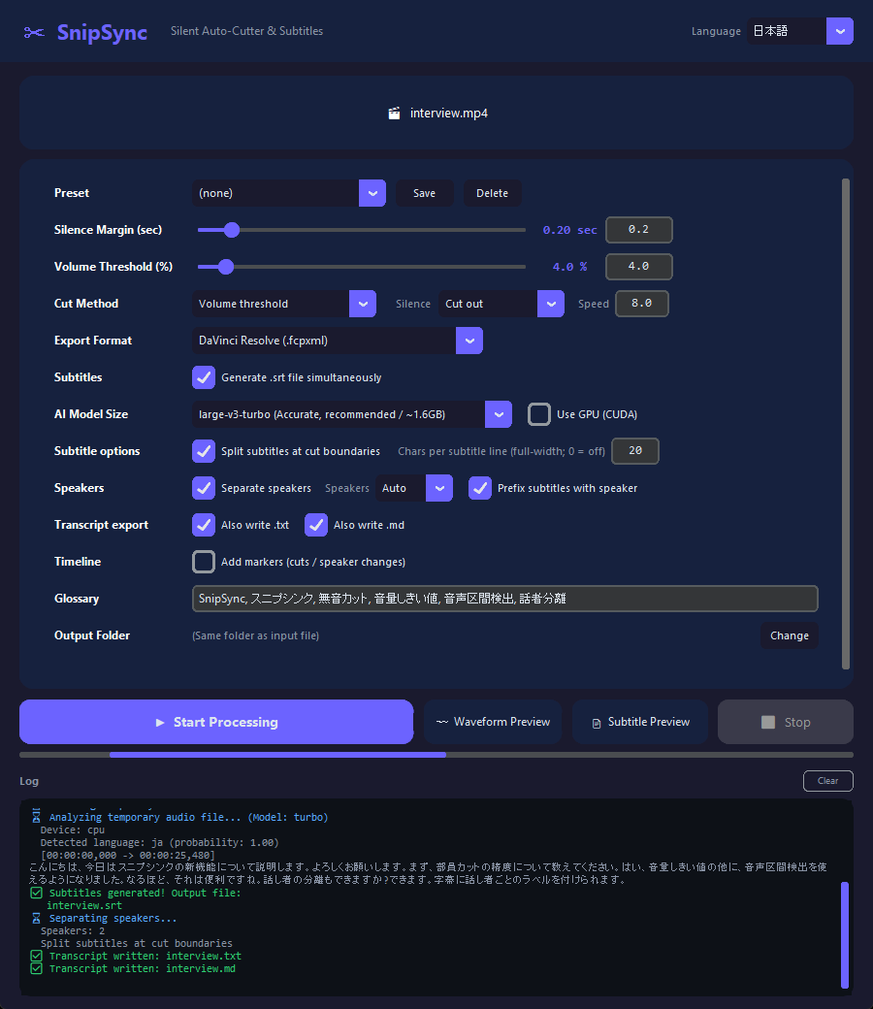
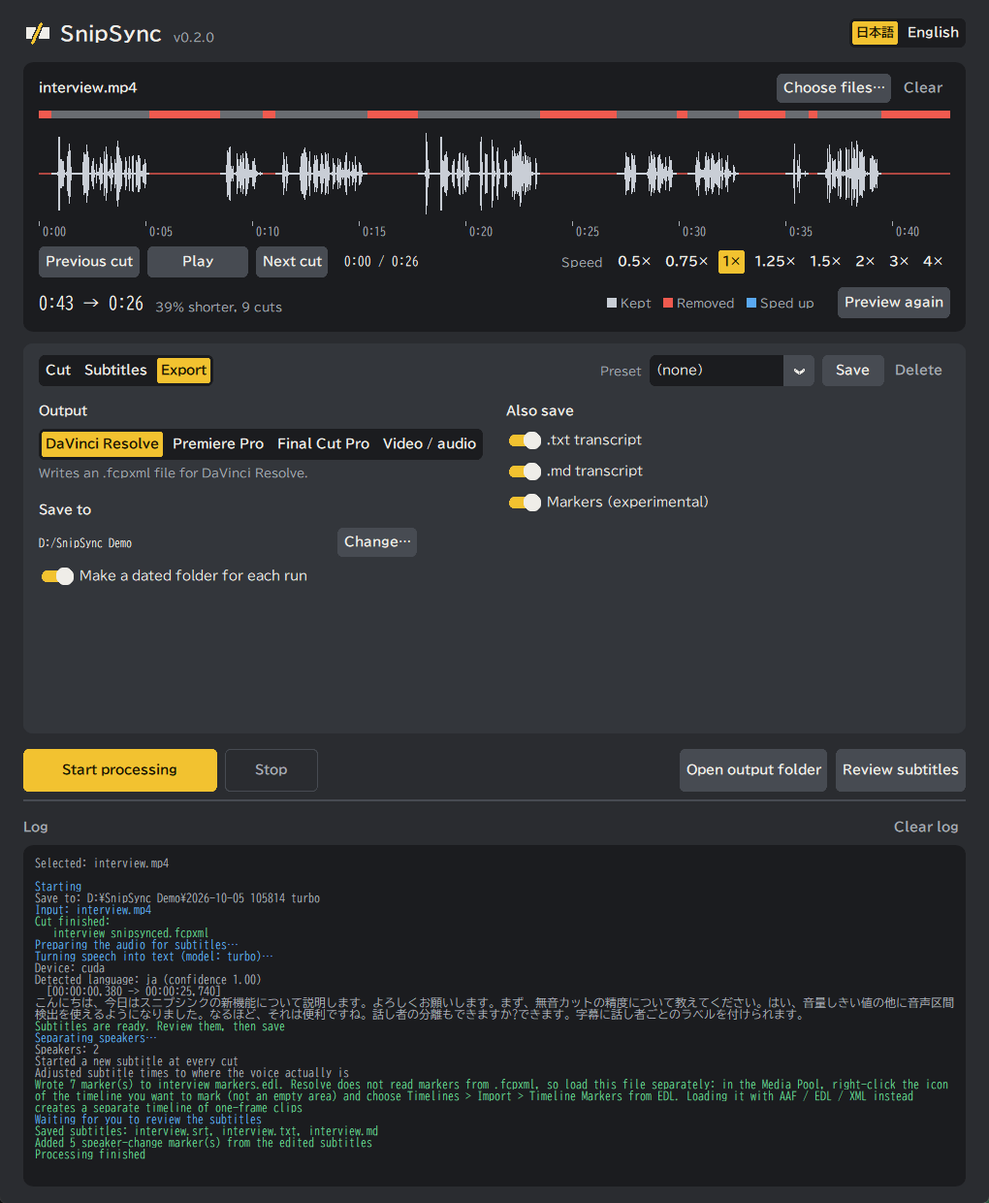
README: スクリーンショットを現在の画面に撮り直し、字幕の確認・編集画面の GIF を追加（4言語）

diff --git a/README_JA.md b/README_JA.md
@@ -183,20 +183,27 @@ flowchart LR
 
 | # | 場所 | 内容 |
 |:-:|---|---|
-| ① | ドロップゾーン | 動画・音声ファイル（複数・フォルダも可）をここにドロップします。クリックして選んでもOK |
-| ② | カットの設定 | **無音マージン**、**音量閾値**、**カット方式**（音量／音声区間検出）、**無音の扱い**（カット／倍速） |
-| ③ | 出力形式 | DaVinci Resolve / Premiere Pro / Final Cut Pro、または「カット済みメディア」（書き出し済みの動画・音声） |
-| ④ | 字幕自動生成 | 字幕のオン／オフと AI モデルの選択。精度重視なら `large-v3-turbo` を推奨 |
-| ⑤ | 字幕の詳細・オプション | カット境界での分割、1行の文字数、**話者の分離**、`.txt` / `.md` の書き出し、マーカー、用語辞書、出力先 |
-| ⑥ | **▶ 処理を開始する** | 全部を実行します。**■ 停止** で中断できます |
-| ⑦ | 波形プレビュー | 処理する*前*に、どこが切られるかを確認します |
-| ⑧ | 字幕プレビュー | 字幕全文を読む・コピー・保存します |
+| ① | ファイルを選ぶ／解除 | 動画・音声ファイル（複数・フォルダも可）は、波形の部分にドロップしても入れられます。「ファイルを選ぶ…」で選ぶこともできます |
+| ② | 波形 | 処理する*前*に、どこが切られるかが見えます。**赤**が削除、**青**が倍速、灰色が残る部分です。波形をクリックすると、再生位置がそこへ移ります |
+| ③ | 再生 | 前のカット／再生／次のカットと、再生速度（0.5〜4倍）。切った結果を、処理の前に聞けます |
+| ④ | 長さと短縮率 | 処理前 → 処理後の長さ、短縮率、カットの数。設定を変えたら **確認し直す** を押します |
+| ⑤ | 設定のタブ | **カット**（方式・しきい値・余白・無音の扱い）、**字幕**（AI モデル・話者など）、**書き出し**（出力形式・保存先など） |
+| ⑥ | プリセット | 設定一式を保存して、あとで呼び出せます |
+| ⑦ | **処理を開始** | 全部を実行します。**停止** で中断できます |
+| ⑧ | 出力フォルダを開く／字幕を確認・編集 | 処理が終わると押せます |
+| ⑨ | ログ | 処理の経過が出ます |
+
+字幕と書き出しのタブは、こうなっています。
+
+<p align="center"><img src="docs/images/tab_subs_ja.png" width="640" alt="字幕のタブ"></p>
+
+<p align="center"><img src="docs/images/tab_export_ja.png" width="640" alt="書き出しのタブ"></p>
 
 #### 2. 開始してログを見る
 
 <p align="center"><img src="docs/images/result_ja.png" width="640" alt="処理後のメイン画面（ログ表示）"></p>
 
-下の**ログ**に、カット、音声認識（認識したテキスト付き）、話者分離、書き出したファイルが順に表示されます。終わると、出力フォルダを開くか聞かれます。
+下の**ログ**に、カット、音声認識（認識したテキスト付き）、話者分離、書き出したファイルが順に表示されます。終わると、**出力フォルダを開く** で、出力先を開けます。
 
 出力は、入力ファイルと同じフォルダ（または指定したフォルダ）に作られます。**処理ごとに日時のフォルダを作る**（既定でオン）のときは、その中に `日時_モデル名` のフォルダ（例: `2026-10-04_190357_large-v3`）が作られ、ファイルはすべてそこに入ります。作られるタイミングは2回あります。
 
@@ -225,27 +232,36 @@ flowchart LR
 - 話者交代のマーカー（**マーカーを追加** をオンにしたとき）は、字幕を保存した直後に、**直したあとの話者と話者名**で追加します。カット点のマーカーは、①の時点でタイムラインに入っています。保存せずに閉じると、話者交代のマーカーは入りません。**保存する前に確認する** をオフにしたときは、①の時点の字幕から入ります。（Resolve では、`_markers.edl` を書き直します。下の注意を参照）
 - 話者名は、画面の下の **話者名を付ける** で付けるか外すかを選べます。オフにすると、保存・コピー・プレビューの `.srt` / `.txt` / `.md` から `話者1：` が消えて、本文だけが残ります。最初はオンです。話者が1人も付いていないときは押せません。話者交代のマーカーには効きません。
 
-#### 3. （任意）切られる場所を確認する — 波形プレビュー
+#### 3. （任意）切られる場所を確認する — 波形
 
-<p align="center"><img src="docs/images/waveform_ja.png" width="760" alt="削除される部分を赤く表示した波形プレビュー"></p>
+<p align="center"><img src="docs/images/waveform_ja.png" width="760" alt="切られる場所を色分けして表示した波形"></p>
 
 | # | 表示内容 |
 |:-:|---|
-| ① | 処理前 → 処理後の長さ、短縮率、カット数 |
-| ② | **赤** = 削除される部分、**橙** = 倍速になる部分。それ以外は残ります |
-| ③ | マージン・しきい値・カット方式を変えたら **再計算** を押します |
+| ① | 処理前 → 処理後の長さ、短縮率、カットの数 |
+| ② | 色の説明（残る／削除／倍速） |
+| ③ | **確認し直す** — カットの設定を変えたら、押して計算し直します |
+| ④ | 再生、前後のカットへの移動、再生速度 |
+| ⑤ | 波形の上の帯。**赤** = 削除される部分、**青** = 倍速になる部分。灰色は残ります |
 
-#### 4. （任意）字幕全文を読む — 字幕プレビュー
+#### 4. （任意）字幕を確認して直す — 字幕の確認・編集画面
 
-<p align="center"><img src="docs/images/text_ja.png" width="640" alt="話者ラベルつきの字幕全文を表示した字幕プレビュー"></p>
+<p align="center"><img src="docs/images/editor_ja.png" width="640" alt="番号つきで説明した字幕の確認・編集画面"></p>
 
 | # | できること |
 |:-:|---|
-| ① | `.txt` / `.md` / `.srt` の表示を切り替えます |
-| ② | 時刻を含める／隠します |
-| ③ | 文章をクリップボードに**コピー**します |
-| ④ | ファイルとして**保存…** します |
-| ⑤ | **SRTを開く…** — 既存の `.srt` を読み込んで、読んだり `.txt` / `.md` に変換したりできます |
+| ① | 字幕の一覧。行を選ぶと、下で直せます。Shift や Ctrl で複数の行を選ぶと、まとめて変えられます。直した行には印が付きます |
+| ② | 元に戻す／やり直す。どの編集も戻せます |
+| ③ | 表示の切り替え。編集のほか、`.txt` / `.md` / `.srt` に書かれる内容を、そのまま確認できます |
+| ④ | 選んだ字幕の本文を直します |
+| ⑤ | 話者の変更（選んだ行すべてに効きます）と、「山田」のような話者名の入力 |
+| ⑥ | カーソル位置で分ける、次の字幕と結合、最初に戻す、削除 |
+| ⑦ | **時刻を含める**（`.txt` / `.md`）と **話者名を付ける**。保存・コピーされる内容が変わります |
+| ⑧ | **保存**。隣に、名前を付けて保存、コピー、SRTを開くがあります |
+
+<p align="center"><img src="docs/images/editor_ja.gif" width="640" alt="字幕の確認・編集画面の操作。複数の行を選び、話者をまとめて変え、名前を付け、.srt の表示で確認し、話者名を外す"></p>
+
+動画は、複数の行を選んで話者をまとめて変え、名前を付け、`.srt` の表示で確かめ、**話者名を付ける** をオフにするまでの流れです。
 
 #### 5. 編集ソフトへ取り込む
 

diff --git a/README_KO.md b/README_KO.md
@@ -183,20 +183,27 @@ flowchart LR
 
 | # | 위치 | 설명 |
 |:-:|---|---|
-| ① | 드롭 영역 | 영상/오디오 파일(여러 개, 폴더도 가능)을 여기에 끌어다 놓습니다. 클릭해서 선택해도 됩니다 |
-| ② | 컷 설정 | **무음 마진**(Silence Margin), **볼륨 임계값**(Volume Threshold), **컷 방식**(Cut Method: 볼륨/음성 구간 감지), **무음 처리**(Silence: 컷/배속) |
-| ③ | 내보내기 형식(Export Format) | DaVinci Resolve / Premiere Pro / Final Cut Pro, 또는 *Cut media*(렌더링된 영상/오디오) |
-| ④ | 자막(Subtitles) | 자막 켜기/끄기와 AI 모델 선택. 정확도가 중요하면 `large-v3-turbo` 권장 |
-| ⑤ | 자막 세부 설정·옵션 | 컷 경계에서 분할, 한 줄 글자 수, **화자 분리**(Separate speakers), `.txt` / `.md` 저장, 마커, 용어 사전, 출력 폴더 |
-| ⑥ | **▶ Start Processing** | 전체를 실행합니다. **■ Stop** 으로 중단할 수 있습니다 |
-| ⑦ | Waveform Preview(파형 미리보기) | 처리하기 *전에* 어디가 잘리는지 확인 |
-| ⑧ | Subtitle Preview(자막 미리보기) | 자막 전문을 읽고, 복사하고, 저장 |
+| ① | 파일 선택(Choose files) / 해제(Clear) | 영상/오디오 파일(여러 개, 폴더도 가능)을 파형 위에 끌어다 놓아도 됩니다. **Choose files…** 로 선택할 수도 있습니다 |
+| ② | 파형 | 처리하기 *전에* 어디가 잘리는지 볼 수 있습니다. **빨강**은 삭제, **파랑**은 배속, 회색은 남는 부분입니다. 파형을 클릭하면 재생 위치가 그곳으로 이동합니다 |
+| ③ | 재생 | Previous cut / Play / Next cut, 재생 속도(0.5×~4×). 처리 전에 잘라낸 결과를 들어볼 수 있습니다 |
+| ④ | 길이와 단축률 | 처리 전 → 처리 후 길이, 단축률, 컷 수. 설정을 바꾸면 **Preview again** 을 누릅니다 |
+| ⑤ | 설정 탭 | **Cut**(방식·임계값·여백·무음 처리), **Subtitles**(AI 모델·화자 등), **Export**(형식·저장 위치 등) |
+| ⑥ | 프리셋(Preset) | 설정 한 벌을 저장해 두었다가 불러옵니다 |
+| ⑦ | **Start processing** | 전체를 실행합니다. **Stop** 으로 중단합니다 |
+| ⑧ | Open output folder / Review subtitles | 처리가 끝나면 누를 수 있습니다 |
+| ⑨ | 로그(Log) | 처리 경과가 표시됩니다 |
+
+Subtitles 탭과 Export 탭은 다음과 같습니다.
+
+<p align="center"><img src="docs/images/tab_subs_en.png" width="640" alt="Subtitles 탭"></p>
+
+<p align="center"><img src="docs/images/tab_export_en.png" width="640" alt="Export 탭"></p>
 
 #### 2. 시작하고 로그 보기
 
 <p align="center"><img src="docs/images/result_en.png" width="640" alt="처리 후의 메인 화면(로그 표시)"></p>
 
-아래 **Log**(로그)에 컷, 음성 인식(인식된 텍스트 포함), 화자 분리, 저장된 파일이 차례로 표시됩니다. 끝나면 출력 폴더를 열지 묻습니다.
+아래 **Log**(로그)에 컷, 음성 인식(인식된 텍스트 포함), 화자 분리, 저장된 파일이 차례로 표시됩니다. 끝나면 **Open output folder** 로 출력 위치를 열 수 있습니다.
 
 결과는 입력 파일과 같은 폴더(또는 지정한 폴더)에 만들어집니다. **처리할 때마다 날짜 폴더 만들기**(기본값은 켜짐)를 켜 두면, 그 안에 `날짜_모델명` 폴더(예: `2026-10-04_190357_large-v3`)가 만들어지고 파일이 모두 그곳에 들어갑니다. 파일은 두 시점에 만들어집니다.
 
@@ -225,27 +232,36 @@ flowchart LR
 - 화자 전환 마커(마커 옵션을 켰을 때)는 자막을 저장한 직후에, **고친 뒤의 화자와 화자 이름**으로 추가됩니다. 컷 지점 마커는 ① 시점에 이미 타임라인에 들어 있습니다. 저장하지 않고 닫으면 화자 전환 마커는 들어가지 않습니다. **Review before saving** 을 끄면 ① 시점의 자막으로 만듭니다. (Resolve 에서는 대신 `_markers.edl` 을 다시 씁니다. 아래 설명 참고)
 - 화자 이름은 창 아래쪽의 *Show speaker names* 스위치로 넣거나 뺄 수 있습니다. 끄면 저장·복사·미리보기의 `.srt` / `.txt` / `.md` 에서 `화자1:` 이 빠지고 본문만 남습니다. 기본은 켜짐입니다. 화자가 하나도 없으면 누를 수 없습니다. 화자 전환 마커에는 영향이 없습니다.
 
-#### 3. (선택) 잘리는 곳 확인 — 파형 미리보기
+#### 3. (선택) 잘리는 곳 확인하기 — 파형
 
-<p align="center"><img src="docs/images/waveform_en.png" width="760" alt="삭제되는 부분을 빨간색으로 표시한 파형 미리보기"></p>
+<p align="center"><img src="docs/images/waveform_en.png" width="760" alt="잘리는 부분을 색으로 구분해 표시한 파형"></p>
 
 | # | 표시 내용 |
 |:-:|---|
-| ① | 처리 전 → 후의 길이, 단축률, 컷 수 |
-| ② | **빨강** = 삭제되는 부분, **주황** = 배속 구간. 나머지는 남습니다 |
-| ③ | 마진·임계값·컷 방식을 바꿨다면 **Recalculate**(다시 계산)를 누르세요 |
+| ① | 처리 전 → 처리 후 길이, 단축률, 컷 수 |
+| ② | 색 설명(남음 / 삭제 / 배속) |
+| ③ | **Preview again** — 컷 설정을 바꾼 뒤 눌러서 다시 계산합니다 |
+| ④ | 재생, 이전/다음 컷으로 이동, 재생 속도 |
+| ⑤ | 파형 위의 띠: **빨강** = 삭제, **파랑** = 배속, 회색 = 남음 |
 
-#### 4. (선택) 자막 전문 읽기 — 자막 미리보기
+#### 4. (선택) 자막 확인하고 고치기 — 자막 확인·편집 창
 
-<p align="center"><img src="docs/images/text_en.png" width="640" alt="화자 표시가 있는 자막 미리보기 창"></p>
+<p align="center"><img src="docs/images/editor_en.png" width="640" alt="번호로 설명한 자막 확인·편집 창"></p>
 
-| # | 기능 |
+| # | 할 수 있는 일 |
 |:-:|---|
-| ① | `.txt`, `.md`, `.srt` 보기 전환 |
-| ② | 시각 표시 켜기/끄기(Include timestamps) |
-| ③ | 클립보드로 **Copy**(복사) |
-| ④ | 파일로 **Save…**(저장) |
-| ⑤ | **Open SRT…** — 기존 `.srt` 를 불러와 읽거나 `.txt` / `.md` 로 변환 |
+| ① | 자막 목록. 행을 선택하면 아래에서 고칠 수 있습니다. Shift 나 Ctrl 로 여러 행을 선택하면 한꺼번에 바꿀 수 있습니다. 고친 행에는 표시가 붙습니다 |
+| ② | 되돌리기 / 다시 실행. 모든 편집을 되돌릴 수 있습니다 |
+| ③ | 보기 전환: 편집, 또는 `.txt` / `.md` / `.srt` 에 쓰일 내용을 그대로 미리 보기 |
+| ④ | 선택한 자막의 본문을 고칩니다 |
+| ⑤ | 화자 변경(선택한 모든 행에 적용)과 “야마다” 같은 화자 이름 입력 |
+| ⑥ | 커서 위치에서 나누기, 다음 자막과 합치기, 원래대로, 삭제 |
+| ⑦ | **Include timestamps**(`.txt` / `.md`)와 **Show speaker names**. 저장·복사되는 내용이 달라집니다 |
+| ⑧ | **Save**. 옆에 **Save as…**, **Copy**, **Open SRT…** 가 있습니다 |
+
+<p align="center"><img src="docs/images/editor_en.gif" width="640" alt="자막 확인·편집 창 조작: 여러 행 선택, 화자 일괄 변경, 화자 이름 지정, .srt 미리 보기 확인, 화자 이름 끄기"></p>
+
+애니메이션은 여러 행을 선택하고, 화자를 한꺼번에 바꾸고, 화자에 이름을 붙이고, `.srt` 미리 보기를 확인한 뒤, **Show speaker names** 를 끄는 순서입니다.
 
 #### 5. 편집 소프트웨어로 가져오기
 

diff --git a/README_ZH.md b/README_ZH.md
@@ -183,20 +183,27 @@ flowchart LR
 
 | # | 位置 | 说明 |
 |:-:|---|---|
-| ① | 投放区 | 将一个或多个视频/音频文件（或整个文件夹）拖到这里，也可点击选择 |
-| ② | 剪切设置 | **静音余量**（Silence Margin）、**音量阈值**（Volume Threshold）、**剪切方式**（Cut Method：音量/语音检测）、**静音处理**（Silence：剪掉/加速） |
-| ③ | 导出格式（Export Format） | DaVinci Resolve / Premiere Pro / Final Cut Pro，或 *Cut media*（已渲染的视频/音频） |
-| ④ | 字幕（Subtitles） | 开关字幕并选择 AI 模型。追求精度推荐 `large-v3-turbo` |
-| ⑤ | 字幕细节与选项 | 按剪切点拆分、每行字数、**说话人分离**（Separate speakers）、`.txt` / `.md` 导出、标记、术语表、输出文件夹 |
-| ⑥ | **▶ Start Processing** | 执行全部处理。**■ Stop** 可中断 |
-| ⑦ | Waveform Preview（波形预览） | 处理*之前*先看哪些部分会被剪掉 |
-| ⑧ | Subtitle Preview（字幕预览） | 阅读、复制、保存完整文字稿 |
+| ① | 选择文件（Choose files）/ 清除（Clear） | 也可以把视频/音频文件（多个或整个文件夹）拖到波形上。**Choose files…** 用来选择文件 |
+| ② | 波形 | 处理*之前*就能看到哪些部分会被剪掉。**红色**为删除，**蓝色**为加速，灰色为保留。点击波形可把播放位置移到那里 |
+| ③ | 播放 | Previous cut / Play / Next cut，以及播放速度（0.5×〜4×）。处理前就能听到剪切后的效果 |
+| ④ | 时长与缩短率 | 处理前 → 处理后的时长、缩短比例、剪切次数。修改设置后，请点击 **Preview again** |
+| ⑤ | 设置标签页 | **Cut**（方式、阈值、余量、静音处理）、**Subtitles**（AI 模型、说话人等）、**Export**（格式、保存位置等） |
+| ⑥ | 预设（Preset） | 保存整套设置，之后可以调用 |
+| ⑦ | **Start processing** | 执行全部处理。**Stop** 可中断 |
+| ⑧ | Open output folder / Review subtitles | 处理完成后可以点击 |
+| ⑨ | 日志（Log） | 显示处理进度 |
+
+Subtitles 和 Export 标签页如下。
+
+<p align="center"><img src="docs/images/tab_subs_en.png" width="640" alt="Subtitles 标签页"></p>
+
+<p align="center"><img src="docs/images/tab_export_en.png" width="640" alt="Export 标签页"></p>
 
 #### 2. 点击开始并查看日志
 
 <p align="center"><img src="docs/images/result_en.png" width="640" alt="处理完成后的主界面（显示日志）"></p>
 
-底部的 **Log**（日志）会依次显示剪切、语音识别（含识别出的文字）、说话人分离以及写出的文件。处理完成后，会询问是否打开输出文件夹。
+底部的 **Log**（日志）会依次显示剪切、语音识别（含识别出的文字）、说话人分离以及写出的文件。处理完成后，可点击 **Open output folder** 打开输出位置。
 
 输出文件保存在输入文件所在文件夹（或你指定的文件夹）。开启**每次处理都建一个日期文件夹**（默认开启）时，会在其中建一个 `日期_模型名` 文件夹（例如 `2026-10-04_190357_large-v3`），所有文件都放进去。文件在两个时间点生成。
 
@@ -225,27 +232,36 @@ flowchart LR
 - 说话人切换标记（开启标记选项时）会在保存字幕后立即添加，使用**你修改后的说话人和说话人名称**。剪切点标记在 ① 时已经写入时间线。不保存就关闭，则不会添加说话人切换标记。关闭 **Review before saving** 时，则根据 ① 时的字幕生成。（对于 Resolve，则改为重写 `_markers.edl`，见下方说明）
 - 说话人名称可以用窗口底部的 *Show speaker names* 开关打开或关闭。关闭后，保存、复制和预览的 `.srt` / `.txt` / `.md` 中不再带 `说话人1：`，只保留正文。默认开启。没有任何说话人时，开关不可用。不影响说话人切换标记。
 
-#### 3.（可选）查看将被剪掉的位置 — 波形预览
+#### 3.（可选）查看哪些部分会被剪掉 — 波形
 
-<p align="center"><img src="docs/images/waveform_en.png" width="760" alt="用红色标出删除部分的波形预览"></p>
+<p align="center"><img src="docs/images/waveform_en.png" width="760" alt="用颜色标出将被剪掉部分的波形"></p>
 
 | # | 显示内容 |
 |:-:|---|
-| ① | 处理前 → 处理后的时长、缩短比例和剪切数量 |
-| ② | **红色** = 删除的部分，**橙色** = 加速的部分，其余保留 |
-| ③ | 修改余量、阈值或剪切方式后，点击 **Recalculate**（重新计算） |
+| ① | 处理前 → 处理后的时长、缩短比例、剪切次数 |
+| ② | 颜色说明（保留 / 删除 / 加速） |
+| ③ | **Preview again** — 修改剪切设置后点击，重新计算 |
+| ④ | 播放、跳到上一个/下一个剪切点、播放速度 |
+| ⑤ | 波形上方的色条：**红色** = 删除，**蓝色** = 加速，灰色 = 保留 |
 
-#### 4.（可选）阅读完整文字稿 — 字幕预览
+#### 4.（可选）确认并修改字幕 — 字幕确认·编辑窗口
 
-<p align="center"><img src="docs/images/text_en.png" width="640" alt="带说话人标注的字幕预览窗口"></p>
+<p align="center"><img src="docs/images/editor_en.png" width="640" alt="带编号标注的字幕确认·编辑窗口"></p>
 
-| # | 作用 |
+| # | 可以做什么 |
 |:-:|---|
-| ① | 在 `.txt`、`.md`、`.srt` 视图之间切换 |
-| ② | 显示或隐藏时间戳（Include timestamps） |
-| ③ | **Copy**（复制）到剪贴板 |
-| ④ | **Save…**（保存）为文件 |
-| ⑤ | **Open SRT…** — 载入已有的 `.srt` 阅读，或转换为 `.txt` / `.md` |
+| ① | 字幕列表。选中一行即可在下方修改。按住 Shift 或 Ctrl 可选多行，一起修改。修改过的行会有标记 |
+| ② | 撤销 / 重做。所有编辑都可以撤销 |
+| ③ | 切换显示：编辑，或原样预览 `.txt` / `.md` / `.srt` 将写入的内容 |
+| ④ | 修改所选字幕的文字 |
+| ⑤ | 更改说话人（对所有选中行生效），并输入“山田”这样的说话人名称 |
+| ⑥ | 在光标处拆分、与下一条字幕合并、恢复原样、删除 |
+| ⑦ | **Include timestamps**（`.txt` / `.md`）和 **Show speaker names**。会改变保存和复制的内容 |
+| ⑧ | **Save**。旁边有 **Save as…**、**Copy**、**Open SRT…** |
+
+<p align="center"><img src="docs/images/editor_en.gif" width="640" alt="字幕确认·编辑窗口的操作：选择多行、一起更改说话人、命名说话人、查看 .srt 预览、关闭说话人名称"></p>
+
+动画依次演示：选择多行、一起更改说话人、给说话人命名、查看 `.srt` 预览，最后关闭 **Show speaker names**。
 
 #### 5. 导入剪辑软件
 

diff --git a/README.md b/README.md
@@ -183,20 +183,27 @@ flowchart LR
 
 | # | Where | What it is |
 |:-:|---|---|
-| ① | Drop zone | Drop one or more video/audio files (or a whole folder) here, or click to browse |
-| ② | Cut settings | **Silence Margin**, **Volume Threshold**, **Cut Method** (volume or voice detection) and **Silence** (cut it out, or speed it up) |
-| ③ | Export Format | DaVinci Resolve / Premiere Pro / Final Cut Pro, or *Cut media* (a rendered video/audio file) |
-| ④ | Subtitles | Turn subtitles on and pick the AI model. `large-v3-turbo` is recommended |
-| ⑤ | Subtitle details and extras | Split at cut boundaries, line length, **speaker separation**, `.txt` / `.md` export, timeline markers, glossary, output folder |
-| ⑥ | **▶ Start Processing** | Runs everything. **■ Stop** cancels |
-| ⑦ | Waveform Preview | See what will be cut *before* you process |
-| ⑧ | Subtitle Preview | Read, copy and save the whole transcript |
+| ① | Choose files / Clear | You can also drop video or audio files (several, or a whole folder) onto the waveform. **Choose files…** opens a file picker |
+| ② | Waveform | See what will be cut *before* you process. **Red** is removed, **blue** is sped up, grey is kept. Click the waveform to move the playhead there |
+| ③ | Playback | Previous cut / Play / Next cut, and playback speed (0.5× to 4×). Listen to the result before processing |
+| ④ | Length and reduction | Length before → after, percent shorter, number of cuts. After changing a setting, press **Preview again** |
+| ⑤ | Setting tabs | **Cut** (method, threshold, padding, silence), **Subtitles** (AI model, speakers, …), **Export** (format, save folder, …) |
+| ⑥ | Preset | Save a whole set of settings and recall it later |
+| ⑦ | **Start processing** | Runs everything. **Stop** cancels |
+| ⑧ | Open output folder / Review subtitles | Available once processing has finished |
+| ⑨ | Log | Shows the progress |
+
+The Subtitles and Export tabs look like this.
+
+<p align="center"><img src="docs/images/tab_subs_en.png" width="640" alt="The Subtitles tab"></p>
+
+<p align="center"><img src="docs/images/tab_export_en.png" width="640" alt="The Export tab"></p>
 
 #### 2. Press Start and watch the log
 
 <p align="center"><img src="docs/images/result_en.png" width="640" alt="SnipSync main window after processing, showing the log"></p>
 
-The **Log** at the bottom shows each step: cutting, speech recognition (with the recognised text), speaker separation, and the files written. When it finishes, SnipSync offers to open the output folder.
+The **Log** at the bottom shows each step: cutting, speech recognition (with the recognised text), speaker separation, and the files written. When it finishes, **Open output folder** opens the place where the files were written.
 
 Outputs are written next to each input file (or to the folder you choose). With **Make a dated folder for each run** on (the default), they go into a `date_model` folder inside it (for example `2026-10-04_190357_large-v3`). Files appear at two moments.
 
@@ -225,27 +232,36 @@ While **Review before saving** is on (the default), processing pauses at the sub
 - Speaker-change markers (when the markers option is on) are added right after you save the subtitles, using the speakers and speaker names **as you edited them**. Cut-point markers are already in the timeline at ①. If you close without saving, no speaker-change markers are added. With **Review before saving** off, they come from the subtitles at ①. For Resolve, this rewrites `_markers.edl` instead (see the Markers note below).
 - Speaker names can be switched on or off with **Show speaker names** at the bottom of the window. Off removes `Speaker 1: ` from the saved, copied and previewed `.srt` / `.txt` / `.md` and keeps only the text. It starts on. It cannot be pressed when no cue has a speaker. It has no effect on speaker-change markers.
 
-#### 3. (Optional) Check what will be cut — Waveform Preview
+#### 3. (Optional) Check what will be cut — the waveform
 
-<p align="center"><img src="docs/images/waveform_en.png" width="760" alt="Waveform preview with removed parts in red"></p>
+<p align="center"><img src="docs/images/waveform_en.png" width="760" alt="Waveform with the parts to be cut colour-coded"></p>
 
 | # | What it shows |
 |:-:|---|
-| ① | Length before → after, the saving, and the number of cuts |
-| ② | **Red** = removed, **orange** = sped up. Everything else is kept |
-| ③ | **Recalculate** after you change the margin, threshold or cut method |
+| ① | Length before → after, percent shorter, number of cuts |
+| ② | Colour key: kept / removed / sped up |
+| ③ | **Preview again** — press it after changing the cut settings to recalculate |
+| ④ | Playback, jumping to the previous or next cut, and playback speed |
+| ⑤ | The bar above the waveform: **red** = removed, **blue** = sped up, grey = kept |
 
-#### 4. (Optional) Read the whole transcript — Subtitle Preview
+#### 4. (Optional) Read and fix the subtitles — the review window
 
-<p align="center"><img src="docs/images/text_en.png" width="640" alt="Subtitle preview window showing the transcript with speaker labels"></p>
+<p align="center"><img src="docs/images/editor_en.png" width="640" alt="Subtitle review window with numbered callouts"></p>
 
-| # | What it does |
+| # | What you can do |
 |:-:|---|
-| ① | Switch between `.txt`, `.md` and `.srt` views |
-| ② | Include or hide the timestamps |
-| ③ | **Copy** the text to the clipboard |
-| ④ | **Save…** it as a file |
-| ⑤ | **Open SRT…** — load any existing `.srt` to read it or convert it to `.txt` / `.md` |
+| ① | The subtitle list. Select a row to edit it below. Select several rows with Shift or Ctrl to change them together. Rows you changed are marked |
+| ② | Undo / Redo. Every edit can be undone |
+| ③ | Switch the view: edit, or preview exactly what `.txt` / `.md` / `.srt` will contain |
+| ④ | Edit the text of the selected subtitle |
+| ⑤ | Change the speaker (for all selected rows at once) and type a speaker name such as "Yamada" |
+| ⑥ | Split at the cursor, merge with the next subtitle, restore the original, delete |
+| ⑦ | **Include timestamps** (`.txt` / `.md`) and **Show speaker names**. They change what is saved and copied |
+| ⑧ | **Save**. **Save as…**, **Copy** and **Open SRT…** are next to it |
+
+<p align="center"><img src="docs/images/editor_en.gif" width="640" alt="Using the review window: select several rows, change their speaker at once, name the speaker, check the .srt preview, and turn off speaker names"></p>
+
+The animation selects several rows, changes their speaker at once, names the speaker, checks the `.srt` preview, and turns **Show speaker names** off.
 
 #### 5. Import the results into your editor
 

diff --git a/CHANGELOG.md b/CHANGELOG.md
@@ -28,6 +28,7 @@
 - テスト: デザインの主張（コントラスト比・色と書体をテーマ以外に直書きしない・補足文の長さ・文言キーの過不足）と、画面の煙テスト。
 
 ### Changed
+- README（4言語）のスクリーンショットを、現在の画面に撮り直した（旧デザインのままだった）。番号の説明を、波形つきのモニター・設定のタブ・字幕の確認・編集画面に合わせて書き直し、字幕の確認・編集画面の操作を示す GIF を足した。見本は、合成音声 2 人分の録音（個人の録画は使っていない）。
 - **字幕の時刻を、実際に声がある区間に合わせて補正する**: Whisper の字幕は、直前の字幕の終わりに張り付いて声より早く出たり、カット点で切れて、カットをまたぐ声の後半が字幕なしになったりした。無音検出（Silero VAD）の結果で、遅い開始を声の始まりへ遅らせ、短い字幕を声の終わりまで延ばす（次の字幕は、こえない。カット点に頭をそろえた字幕は、動かさない）。補正に失敗しても、字幕の出力は止まらない。
 - **話者交代のマーカーを、編集後の字幕から入れる**: 「保存する前に確認する」がオンのとき、確認画面で直した話者・話者名が、タイムラインのマーカーに反映される（保存した直後に追加。カット点のマーカーは処理の中で従来どおり）。保存せずに閉じたときは入れない。
 - **UI を全面的に作り直し**: 紺と紫の配色を廃止し、編集ソフトに近い無彩色のグレーと、「黄色は操作、赤・青は素材に起きたこと」の規則に統一した。設定を「カット／字幕／書き出し」のタブに分け、モニターを最上部に置いた。全ての決定の理由は DESIGN.md に書いた。
